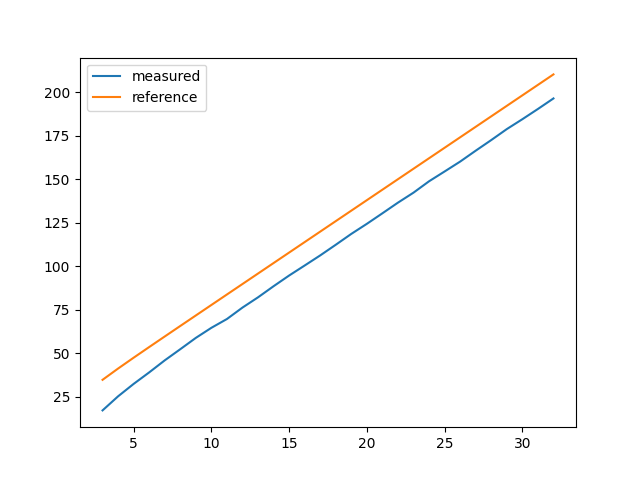
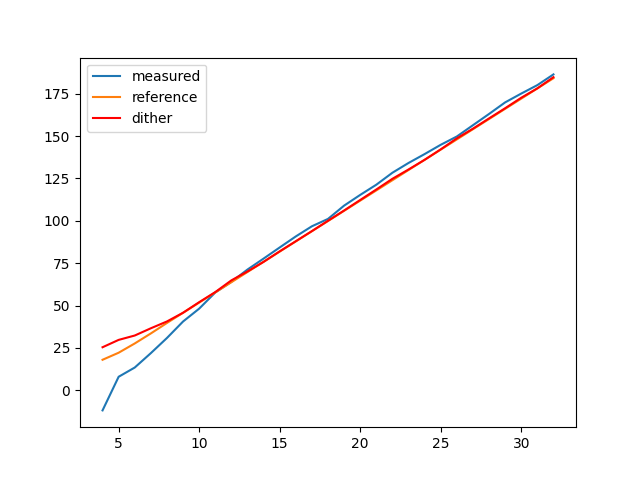
Fixed IIR

diff --git a/iir/iir.py b/iir/iir.py
@@ -11,7 +11,7 @@ np.random.seed(0)
 length = 2
 sample_rate = 1000
 f = 1
-A = 1  # 2**31
+A = 1/20  # 2**31
 time = np.arange(0, length, 1 / sample_rate)
 x = A * np.sin(2 * np.pi * f * time)
 
@@ -20,9 +20,10 @@ x = A * np.sin(2 * np.pi * f * time)
 
 snrs = []
 snr_refs = []
+snr_dithers = []
 
 for n_frac in range(3, 33):
-    fxp_ref = Fxp(None, signed=True, n_word=n_frac + 15, n_frac=n_frac)
+    fxp_ref = Fxp(None, signed=True, n_word=n_frac + 10, n_frac=n_frac, rounding='around')
 
     def Q(x):
         return Fxp(x, like=fxp_ref).get_val()
@@ -63,18 +64,27 @@ for n_frac in range(3, 33):
 
     Ps = np.mean(np.abs(output_ref) ** 2)
     Pn = np.mean(np.abs(output_ref - output_fxp) ** 2)
+    Pndither = np.mean(np.abs(output_ref - output_fxp_d) ** 2)
     Psfxp = np.mean(np.abs(output_fxp) ** 2) - Pn
+    Psdfxp = np.mean(np.abs(output_fxp_d) ** 2) - Pn
     Pnexp = (q ** 2) / 6 / (1-a**2)
+
 
     snr = 10 * np.log10(Psfxp / Pn)
     snr_ref = 10 * np.log10(Ps / Pnexp)
+    snr_dither = 10 * np.log10(Psdfxp / Pndither)
     snrs.append(snr)
     snr_refs.append(snr_ref)
+    snr_dithers.append(snr_dither)
     print(Ps, Pn, Pnexp, snr, snr_ref)
+    #print(71+10*np.log10(1-a**2), q)
+
+    #break
 
 
 plt.plot(np.arange(3, 33), snrs, label="measured")
 plt.plot(np.arange(3, 33), snr_refs, label="reference")
+plt.plot(np.arange(3, 33), snr_dithers, color="r", label="dither")
 plt.legend()
 plt.savefig("iir.png")
 plt.show()
